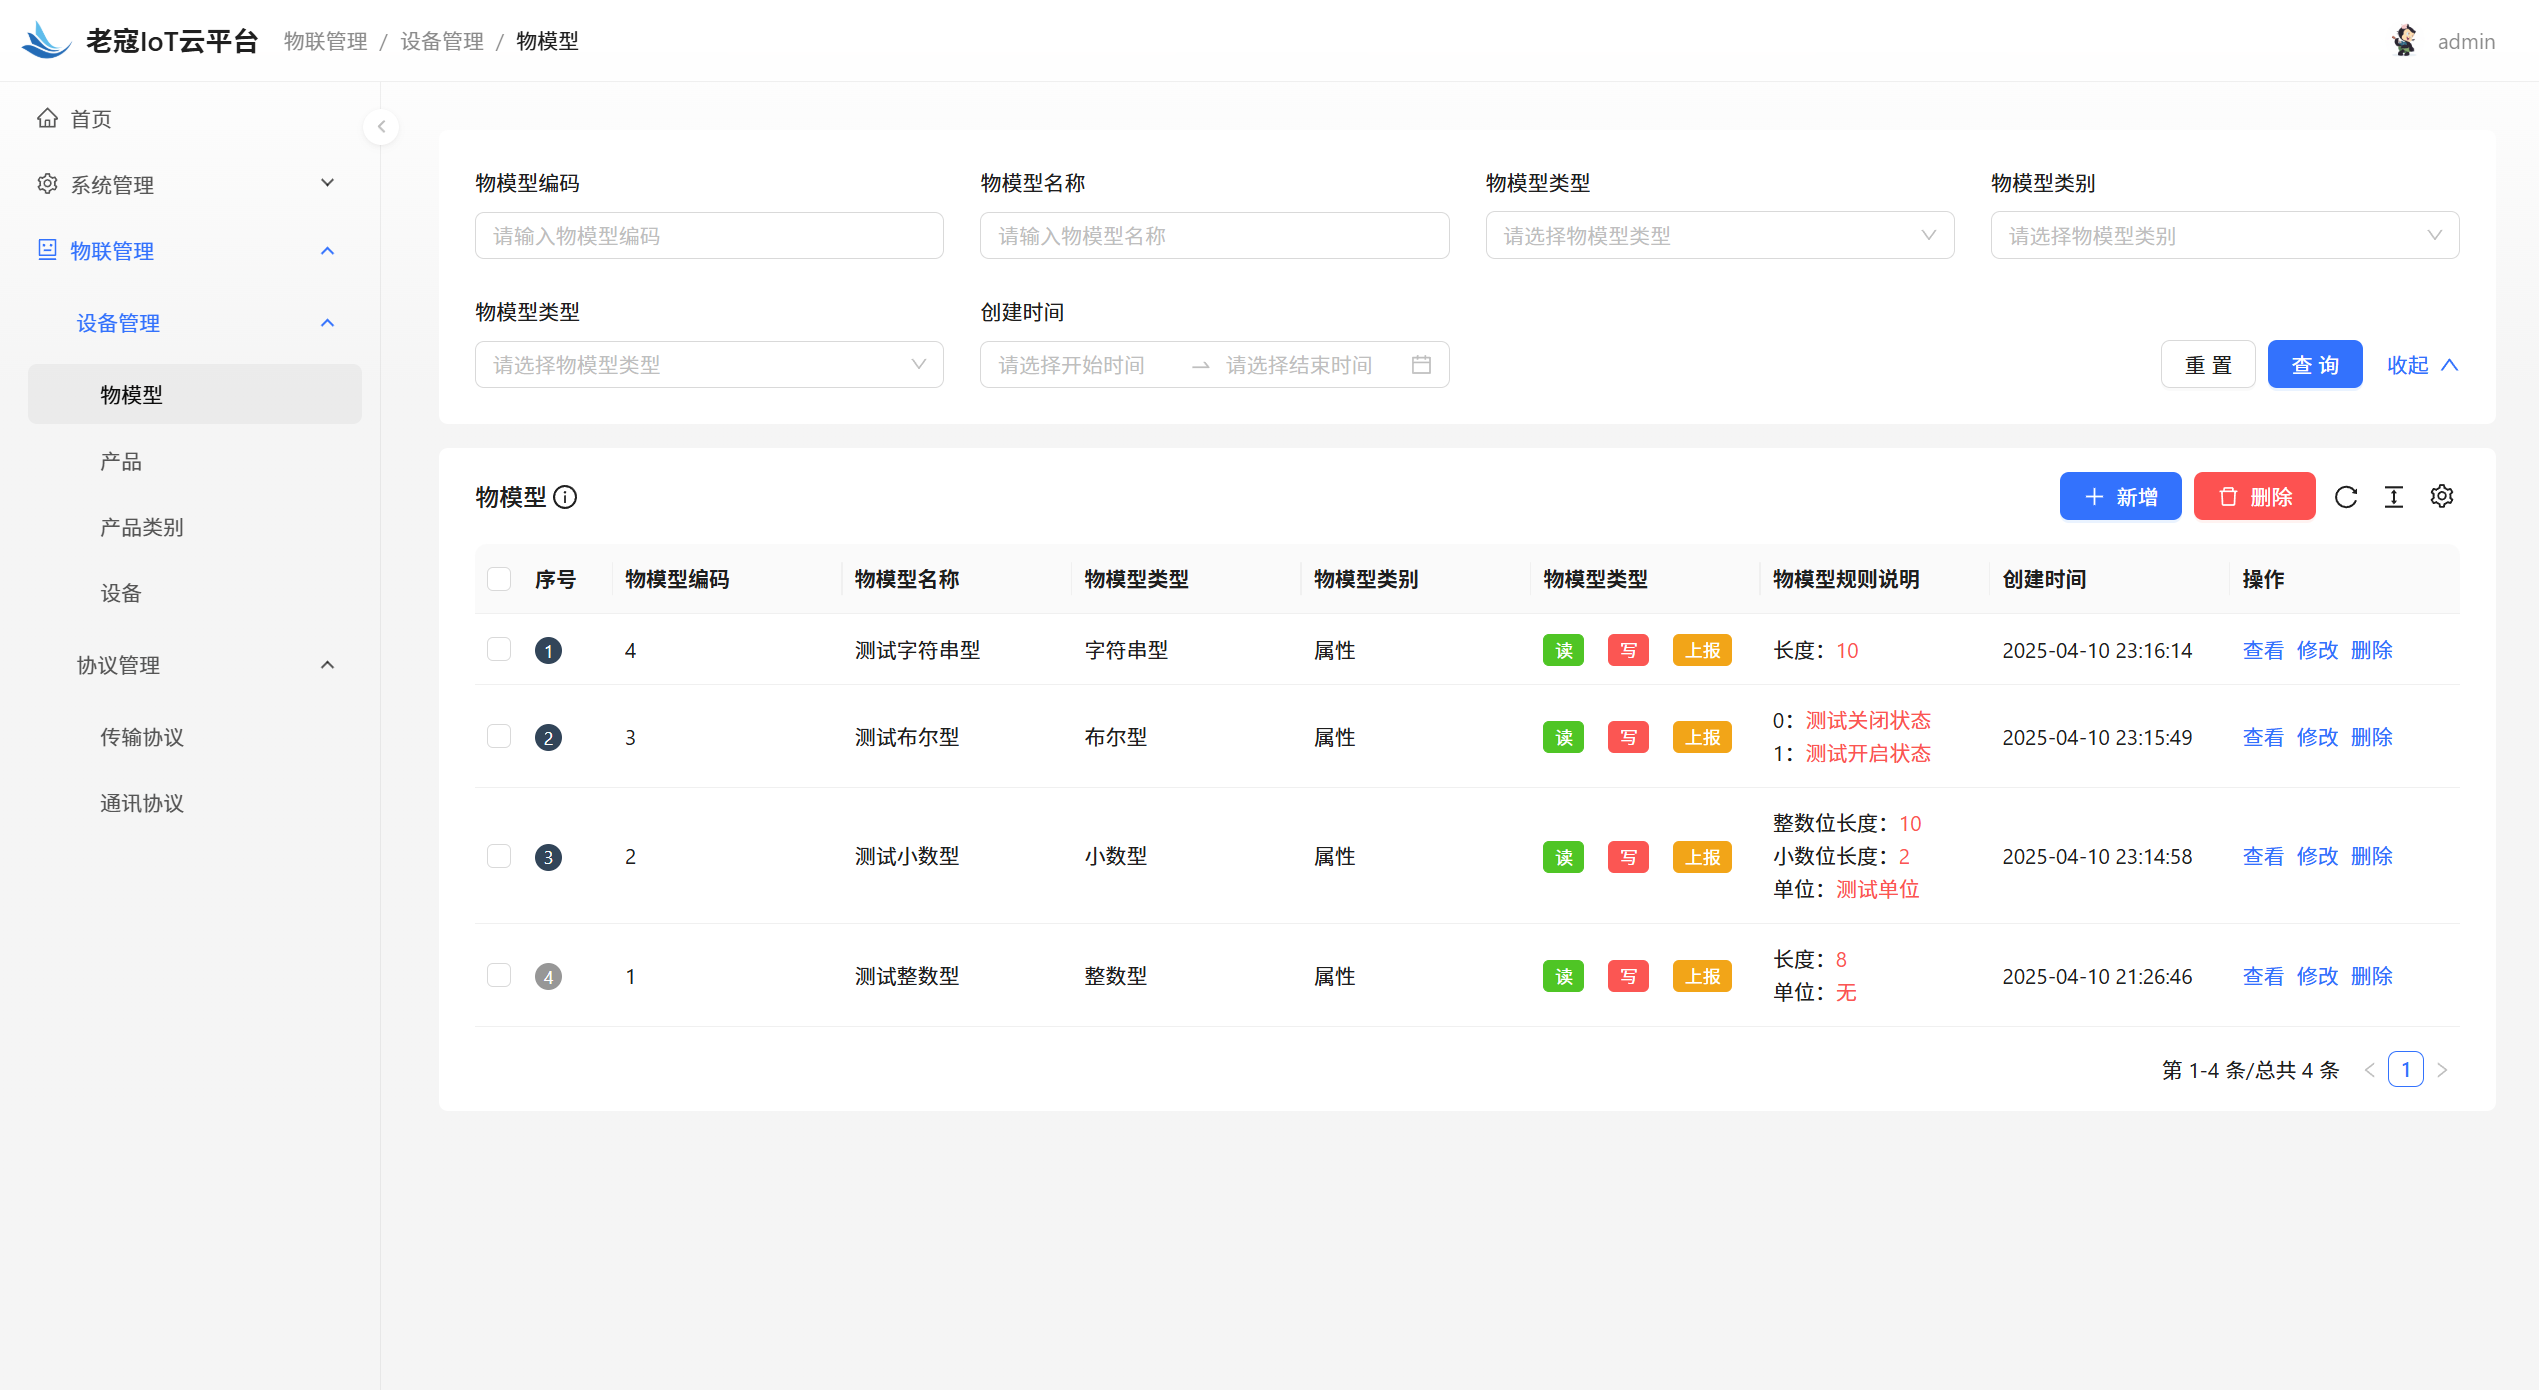
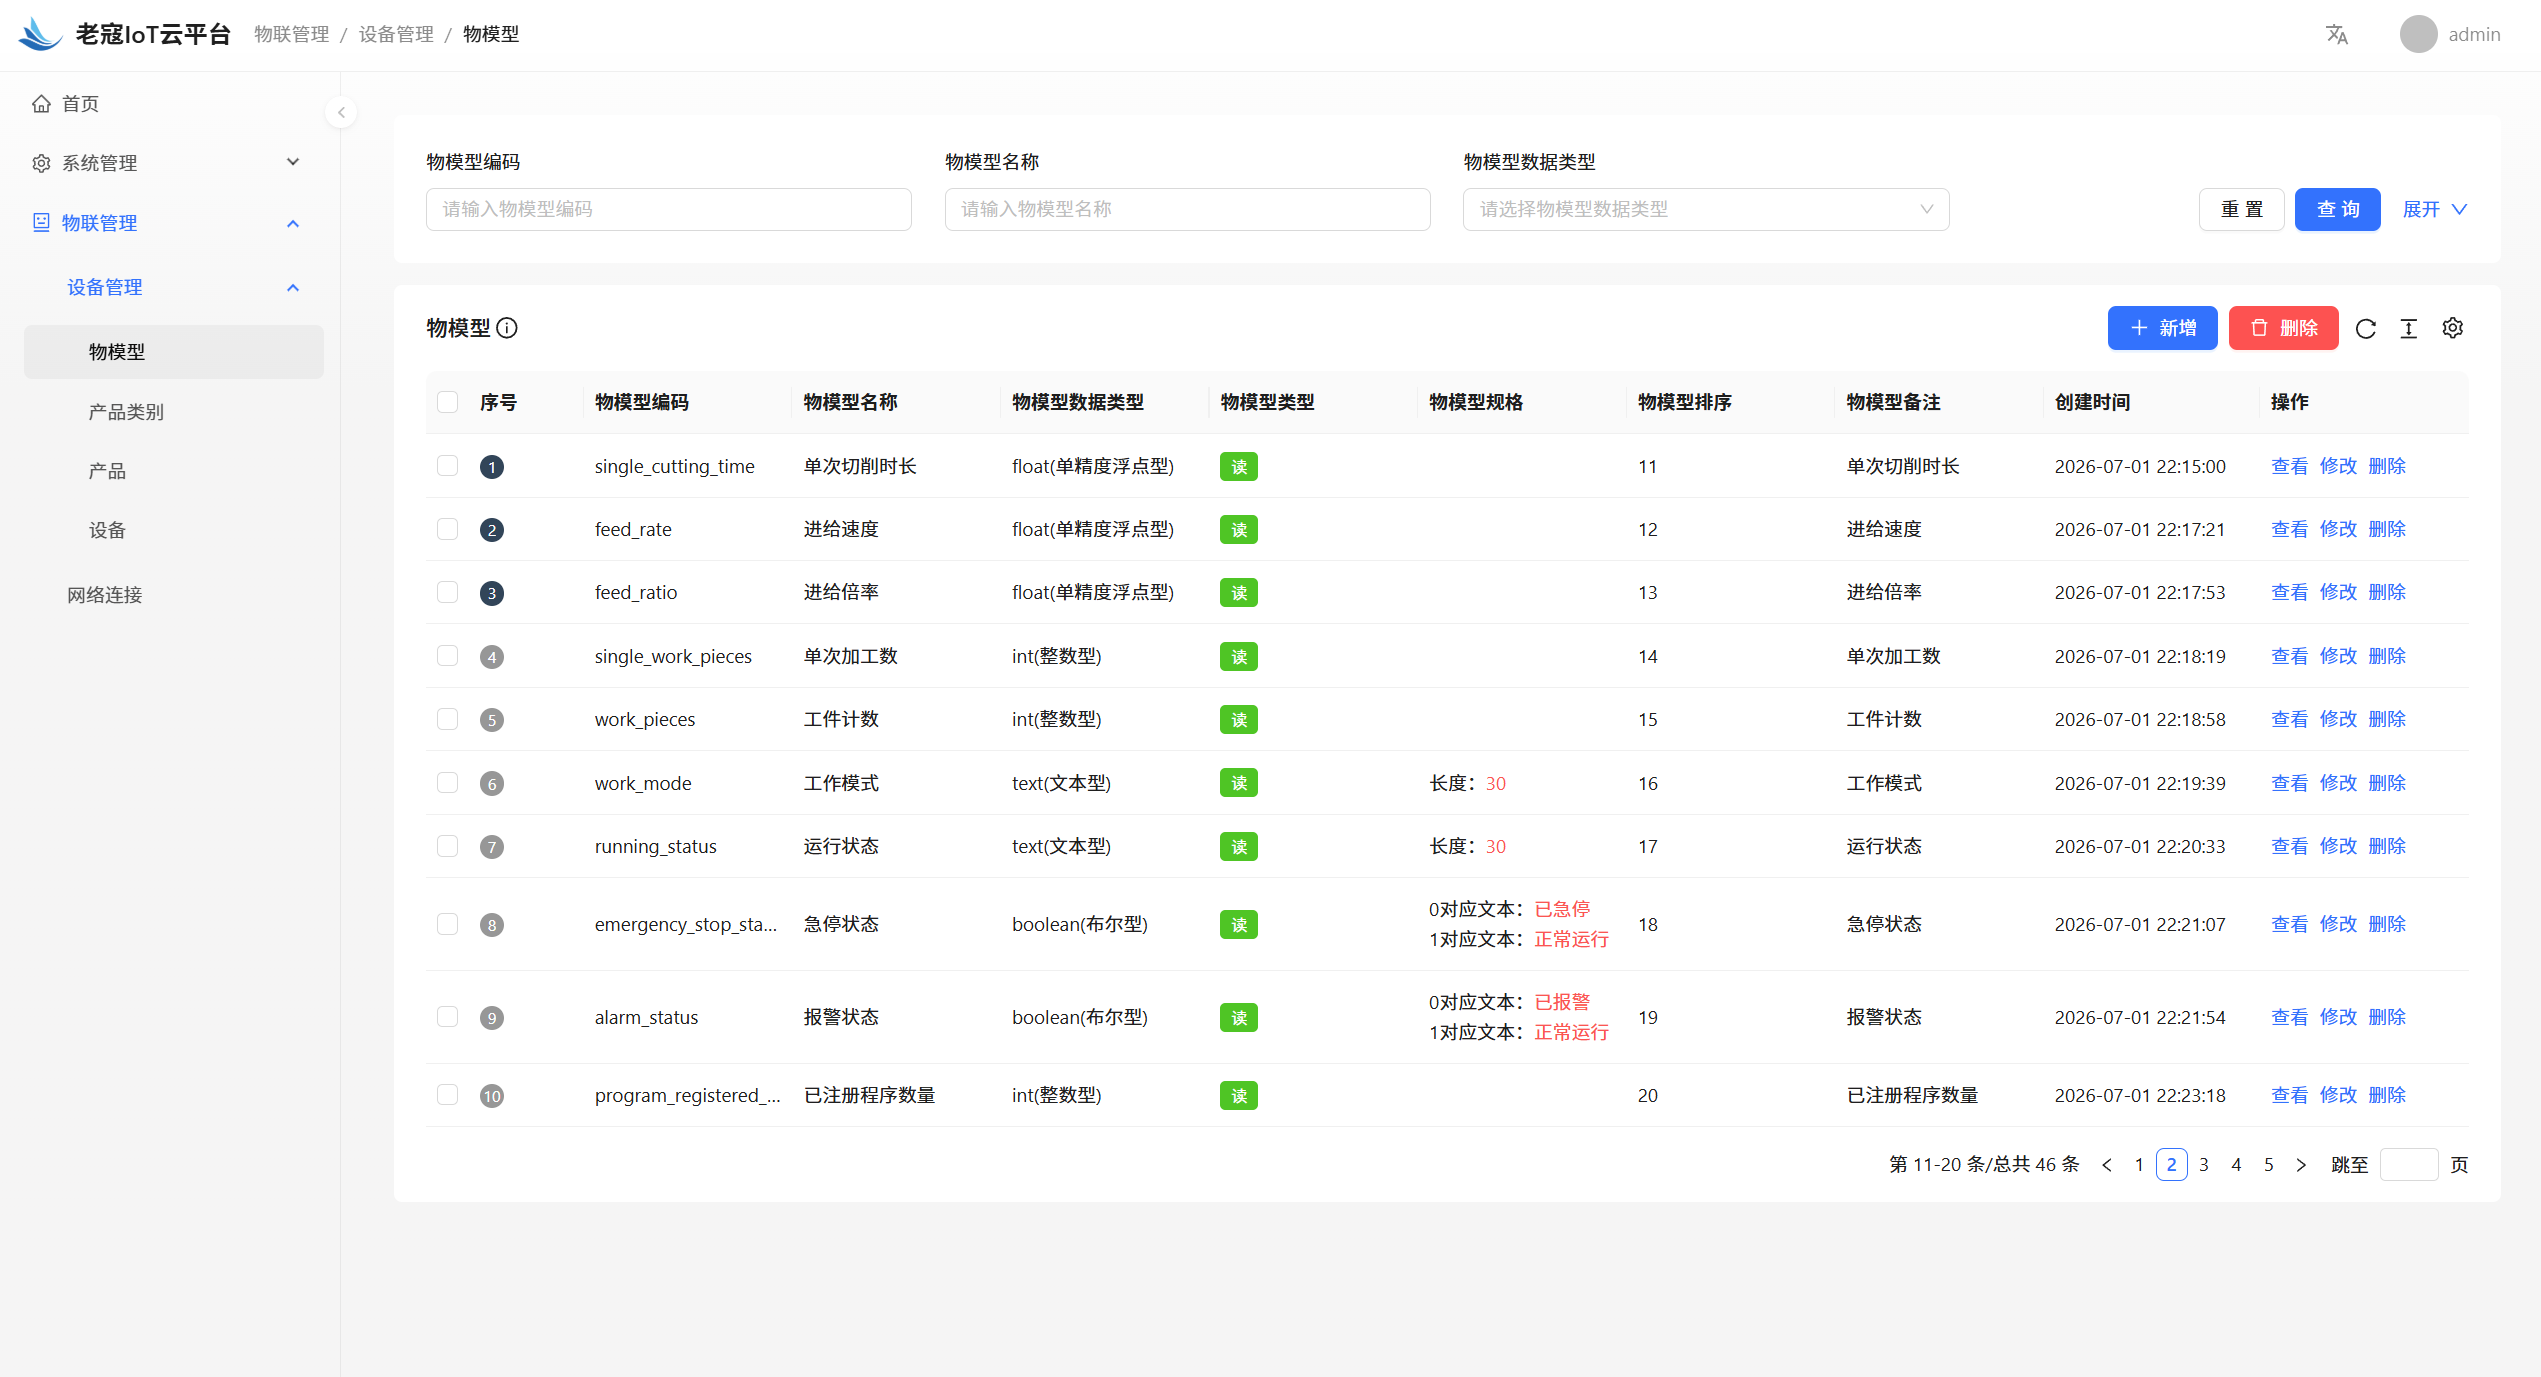
feat: 重构物模型完成

diff --git a/ui/src/pages/IoT/Device/thingModel.tsx b/ui/src/pages/IoT/Device/thingModel.tsx
@@ -164,6 +164,7 @@ export default () => {
 			dataIndex: 'type',
 			disable: true,
 			hideInSearch: true,
+			ellipsis: true,
 			renderFormItem: (_, { defaultRender }) => {
 				return defaultRender(_);
 			},
@@ -192,6 +193,7 @@ export default () => {
 			dataIndex: 'spec',
 			valueType: 'text',
 			hideInSearch: true,
+			ellipsis: true,
 			renderFormItem: (_, { defaultRender }) => {
 				return defaultRender(_);
 			},
@@ -228,6 +230,20 @@ export default () => {
 					</>
 				);
 			},
+		},
+		{
+			title: t('iot.thingModel.sort'),
+			dataIndex: 'sort',
+			valueType: 'text',
+			hideInSearch: true,
+			ellipsis: true,
+		},
+		{
+			title: t('iot.thingModel.remark'),
+			dataIndex: 'remark',
+			valueType: 'text',
+			hideInSearch: true,
+			ellipsis: true,
 		},
 		{
 			title: t('common.createTime'),

diff --git a/ui/src/locales/en-US.ts b/ui/src/locales/en-US.ts
@@ -344,12 +344,12 @@ export default {
 	'iot.thingModel.insert': 'Insert Thing Model',
 	'iot.thingModel.view': 'View Thing Model',
 	'iot.thingModel.modify': 'Modify Thing Model',
-	'iot.thingModel.code': 'Thing ModelCode',
-	'iot.thingModel.name': 'Thing ModelName',
-	'iot.thingModel.sort': 'Thing ModelSort',
-	'iot.thingModel.remark': 'Thing ModelRemark',
-	'iot.thingModel.type': 'Thing ModelType',
-	'iot.thingModel.dataType': 'Thing ModelData Type',
+	'iot.thingModel.code': 'Thing Model Code',
+	'iot.thingModel.name': 'Thing Model Name',
+	'iot.thingModel.sort': 'Thing Model Sort',
+	'iot.thingModel.remark': 'Thing Model Remark',
+	'iot.thingModel.type': 'Thing Model Type',
+	'iot.thingModel.dataType': 'Thing Model Data Type',
 	'iot.thingModel.specs': 'Thing Model Spec',
 	'iot.thingModel.length': 'Length',
 	'iot.thingModel.unit': 'Unit',